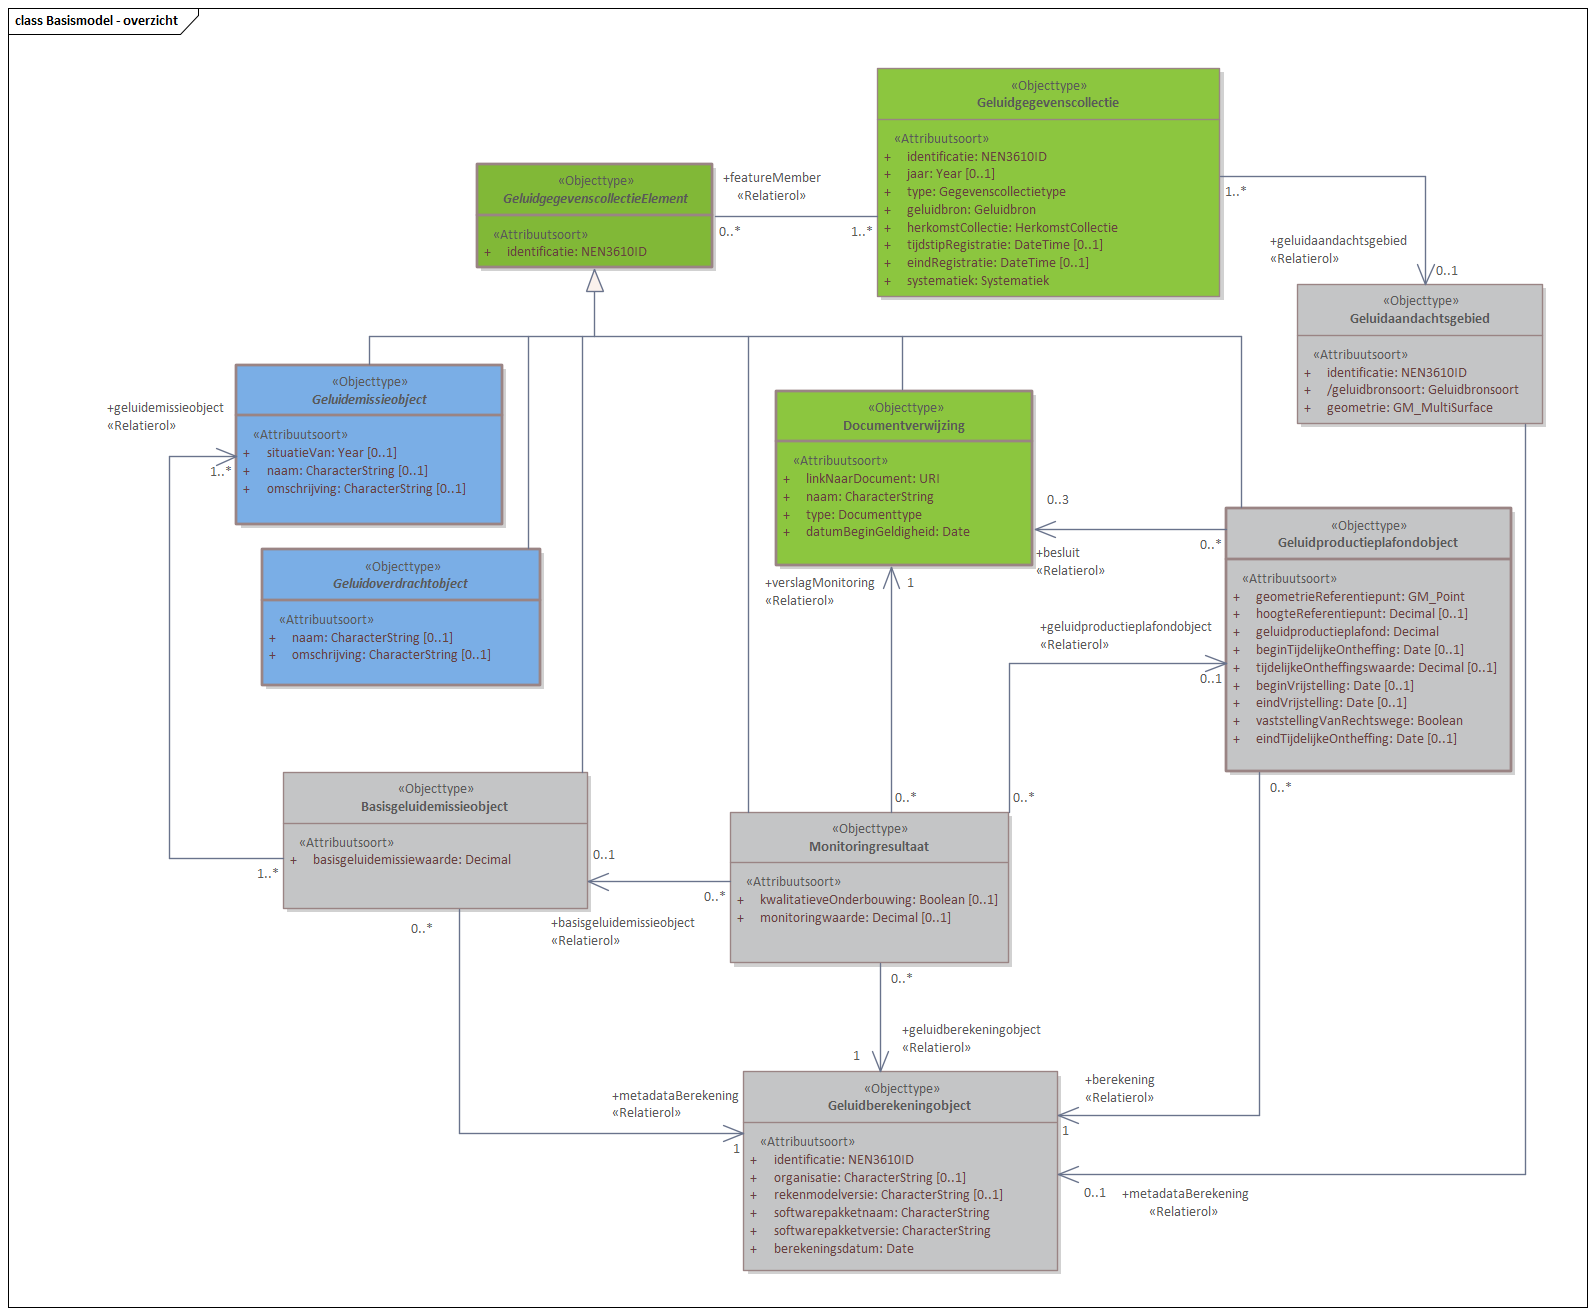
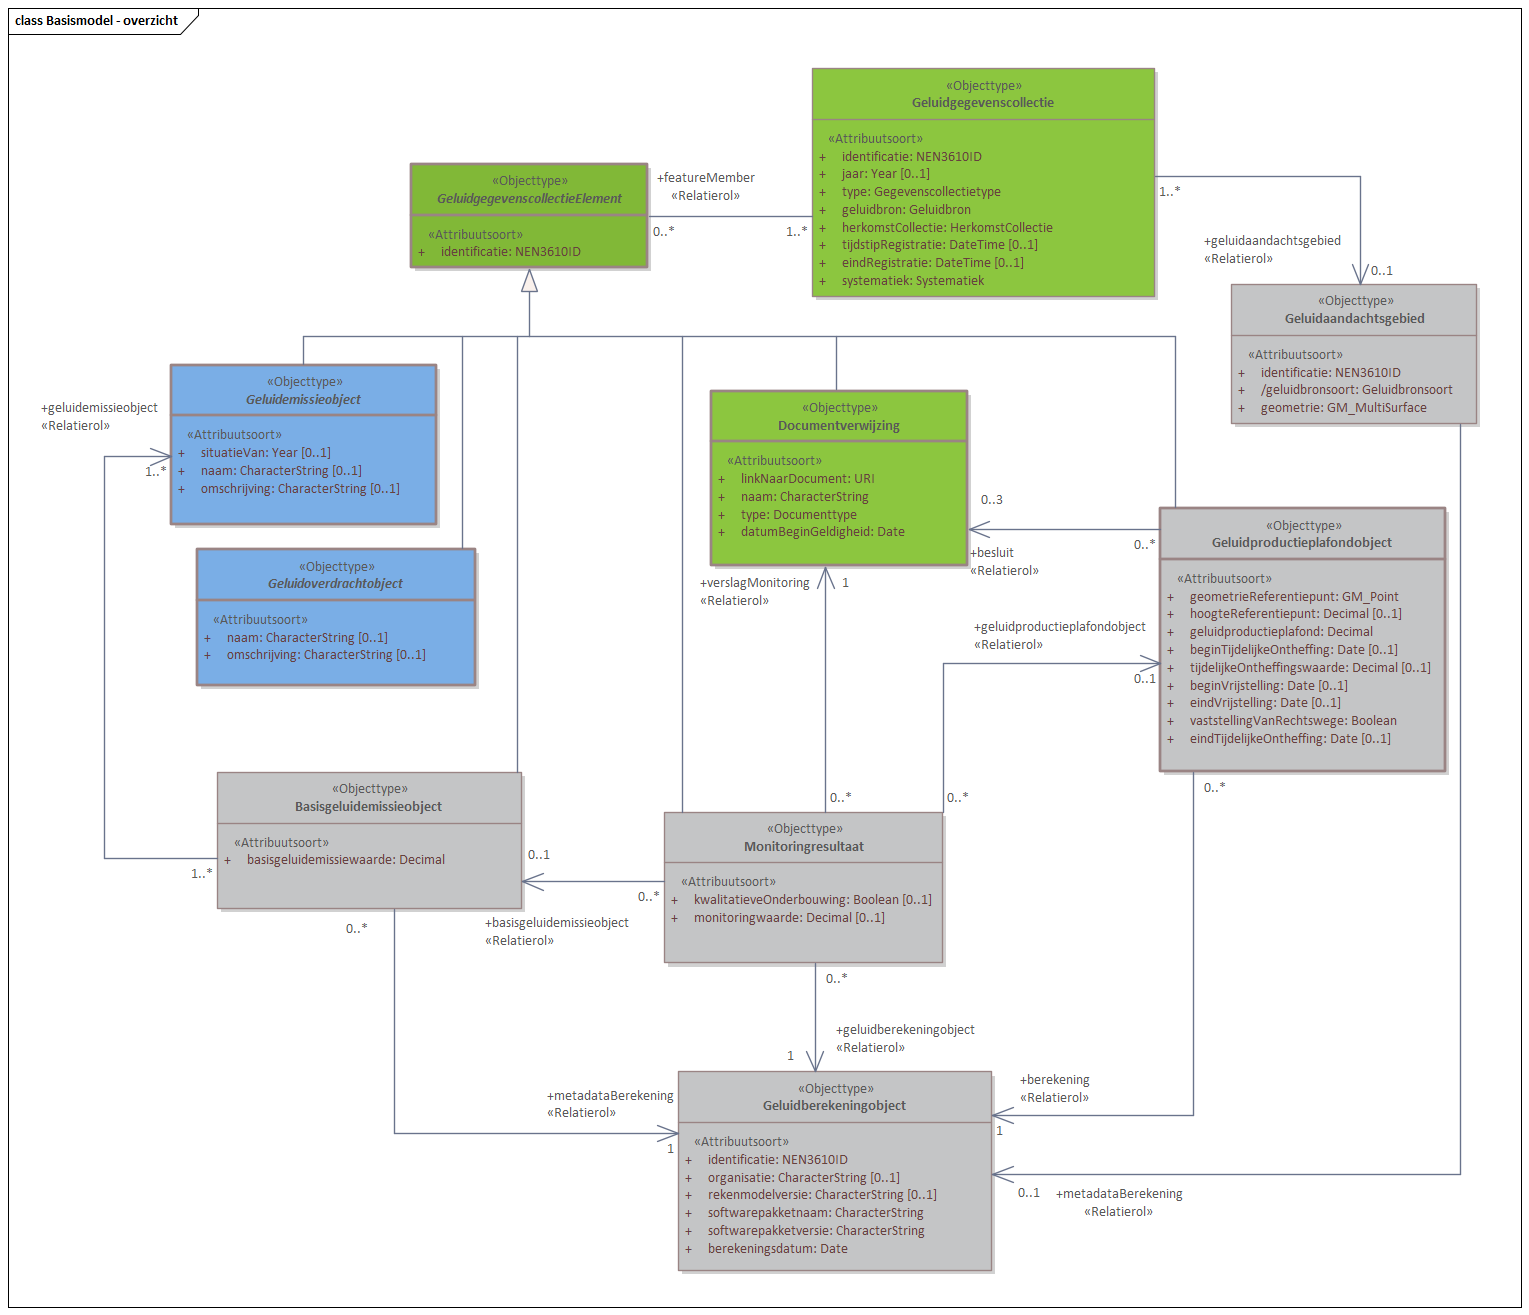
MIMLM-InformatiemodelGeluid-1.1-0-20210521-20211109-113808

diff --git a/data/IMG-cat.respec.html b/data/IMG-cat.respec.html
@@ -1,10 +1,10 @@
 
 <!DOCTYPE HTML><section id="cat" class="normative">
    <h2>Gegevensdefinitie</h2>
-   <!--MIMLM-InformatiemodelGeluid-1.1-0-20210521-20211109-112456 imvertor 1.65.2-->
+   <!--MIMLM-InformatiemodelGeluid-1.1-0-20210521-20211109-113808 imvertor 1.65.2-->
    <section id="EAID_66AE8FA2_74FC_4d4d_B2B2_249C8D6A651F">
       <h3>   Basismodel - overzicht</h3>
-      <div class="imageinfo overview"><img src="data/Images/EAID_66AE8FA2_74FC_4d4d_B2B2_249C8D6A651F.png" usemap="#imagemap-EAID_66AE8FA2_74FC_4d4d_B2B2_249C8D6A651F" alt="Diagram &#xA;                        Het Basismodel vormt de samenhang tussen alle domeinen van het IMGeluid. Alle objecttypen en relaties uit het IMGeluid komen samen in een Geluidgegevenscollectie.&#xA;                        Binnen het IMGeluid worden geluidbrongegevens die gebruikt worden voor GPP en BGE berekeningen, gemodelleerd als een Geluidemissie of Geluidoverdrachtobject. De resultaten van GPP of BGE berekeningen worden opgeslagen in een Geluidgegevenscollectie. De onderliggende juridische vastleggingen, vaststellingen, of monitoringsverslagen van deze omgevings- of monitoringswaarden, worden ook opgeslagen in dezelfde Geluidgegevenscollectie.&#xA;                        Per geluidbron per toepassing kan er een Geluidgegevenscollectie bestaan. Deze kan geassocieerd worden met maximaal 1 Geluidaandachtsgebied. Wanneer geluidgegevens met betrekking tot cumulatieberekeningen worden aangeleverd, bevat een Geluidgegevenscollectie geen Geluidaandachtsgebied.&#xA;                        &#xA;                        # test&#xA;                        &#xA;                        Klik met de rechtermuisknop op het diagram om de afbeelding op volledige grote in een nieuw tabblad te openen.&#xA;                     "><map name="imagemap-EAID_66AE8FA2_74FC_4d4d_B2B2_249C8D6A651F"><area shape="rect" alt="GeluidgegevenscollectieElement" coords="477,164,713,268" href="#graph_EAID_924BD078_D715_461a_B7E9_D7176A7406E0"><area shape="rect" alt="Monitoringresultaat" coords="730,812,1009,963" href="#graph_EAID_BA00B77B_D408_4590_8185_CE59E5838F1E"><area shape="rect" alt="Basisgeluidemissieobject" coords="283,772,588,909" href="#graph_EAID_9AD15457_4880_42e5_8C72_4E5EFAC91B15"><area shape="rect" alt="Geluidproductieplafondobject" coords="1226,508,1512,772" href="#graph_EAID_237408F8_8CE9_4828_B8FB_1A5B8C917622"><area shape="rect" alt="Geluidberekeningobject" coords="743,1071,1058,1271" href="#graph_EAID_97ED59FE_9FCA_49a6_8F07_214E48000B76"><area shape="rect" alt="Documentverwijzing" coords="776,391,1033,566" href="#graph_EAID_7E137496_1028_4af5_9367_569358A2167B"><area shape="rect" alt="Geluidaandachtsgebied" coords="1297,284,1543,424" href="#graph_EAID_B06128AC_518C_4e26_88E5_14ED5A050A19"><area shape="rect" alt="Geluidgegevenscollectie" coords="877,68,1220,297" href="#graph_EAID_313C5AF9_49B8_4860_9E65_DE7C70084864"><area shape="rect" alt="Geluidemissieobject" coords="236,365,503,525" href="#graph_EAID_361C96BA_A638_494e_80BA_590ED481A81B"><area shape="rect" alt="Geluidoverdrachtobject" coords="262,549,541,686" href="#graph_EAID_2FEA326B_B7E7_48a4_B50F_00CCB2694677"></map><p><b>Basismodel - overzicht</b>
+      <div class="imageinfo overview"><img src="data/Images/EAID_66AE8FA2_74FC_4d4d_B2B2_249C8D6A651F.png" usemap="#imagemap-EAID_66AE8FA2_74FC_4d4d_B2B2_249C8D6A651F" alt="Diagram &#xA;                        Het Basismodel vormt de samenhang tussen alle domeinen van het IMGeluid. Alle objecttypen en relaties uit het IMGeluid komen samen in een Geluidgegevenscollectie.&#xA;                        Binnen het IMGeluid worden geluidbrongegevens die gebruikt worden voor GPP en BGE berekeningen, gemodelleerd als een Geluidemissie of Geluidoverdrachtobject. De resultaten van GPP of BGE berekeningen worden opgeslagen in een Geluidgegevenscollectie. De onderliggende juridische vastleggingen, vaststellingen, of monitoringsverslagen van deze omgevings- of monitoringswaarden, worden ook opgeslagen in dezelfde Geluidgegevenscollectie.&#xA;                        Per geluidbron per toepassing kan er een Geluidgegevenscollectie bestaan. Deze kan geassocieerd worden met maximaal 1 Geluidaandachtsgebied. Wanneer geluidgegevens met betrekking tot cumulatieberekeningen worden aangeleverd, bevat een Geluidgegevenscollectie geen Geluidaandachtsgebied.&#xA;                        &#xA;                        # test&#xA;                        &#xA;                        Klik met de rechtermuisknop op het diagram om de afbeelding op volledige grote in een nieuw tabblad te openen.&#xA;                     "><map name="imagemap-EAID_66AE8FA2_74FC_4d4d_B2B2_249C8D6A651F"><area shape="rect" alt="GeluidgegevenscollectieElement" coords="411,164,648,268" href="#graph_EAID_924BD078_D715_461a_B7E9_D7176A7406E0"><area shape="rect" alt="Monitoringresultaat" coords="664,812,943,963" href="#graph_EAID_BA00B77B_D408_4590_8185_CE59E5838F1E"><area shape="rect" alt="Basisgeluidemissieobject" coords="217,772,522,909" href="#graph_EAID_9AD15457_4880_42e5_8C72_4E5EFAC91B15"><area shape="rect" alt="Geluidproductieplafondobject" coords="1160,508,1446,772" href="#graph_EAID_237408F8_8CE9_4828_B8FB_1A5B8C917622"><area shape="rect" alt="Geluidberekeningobject" coords="678,1071,992,1271" href="#graph_EAID_97ED59FE_9FCA_49a6_8F07_214E48000B76"><area shape="rect" alt="Documentverwijzing" coords="711,391,968,566" href="#graph_EAID_7E137496_1028_4af5_9367_569358A2167B"><area shape="rect" alt="Geluidaandachtsgebied" coords="1231,284,1477,424" href="#graph_EAID_B06128AC_518C_4e26_88E5_14ED5A050A19"><area shape="rect" alt="Geluidgegevenscollectie" coords="812,68,1155,297" href="#graph_EAID_313C5AF9_49B8_4860_9E65_DE7C70084864"><area shape="rect" alt="Geluidemissieobject" coords="171,365,437,525" href="#graph_EAID_361C96BA_A638_494e_80BA_590ED481A81B"><area shape="rect" alt="Geluidoverdrachtobject" coords="197,549,476,686" href="#graph_EAID_2FEA326B_B7E7_48a4_B50F_00CCB2694677"></map><p><b>Basismodel - overzicht</b>
             
             <p>Het Basismodel vormt de samenhang tussen alle domeinen van het IMGeluid. Alle objecttypen
                en relaties uit het IMGeluid komen samen in een Geluidgegevenscollectie.</p>
@@ -6931,11 +6931,11 @@
                </tr>
                <tr>
                   <td>
-                     <a class="link" href="#detail_attribute_IMGeluidAlgemeen_SpoorstaafruwheidWaarde_amplitudeVoorGolflengte400">amplitudeVoorGolflengte400</a>
+                     <a class="link" href="#detail_attribute_IMGeluidAlgemeen_SpoorstaafruwheidWaarde_amplitudeVoorGolflengte500">amplitudeVoorGolflengte500</a>
                      </td>
                   <td>
                      
-                     <p>Gemeten amplitude voor een golflengte van 400 millimeter.</p>
+                     <p>Gemeten amplitude voor een golflengte van 500 millimeter.</p>
                      </td>
                   <td>
                      <a class="external-link" href="https://geonovum.github.io/MIM-Werkomgeving/#primitive-datatypes">Decimal</a>
@@ -6944,11 +6944,11 @@
                </tr>
                <tr>
                   <td>
-                     <a class="link" href="#detail_attribute_IMGeluidAlgemeen_SpoorstaafruwheidWaarde_amplitudeVoorGolflengte500">amplitudeVoorGolflengte500</a>
+                     <a class="link" href="#detail_attribute_IMGeluidAlgemeen_SpoorstaafruwheidWaarde_amplitudeVoorGolflengte400">amplitudeVoorGolflengte400</a>
                      </td>
                   <td>
                      
-                     <p>Gemeten amplitude voor een golflengte van 500 millimeter.</p>
+                     <p>Gemeten amplitude voor een golflengte van 400 millimeter.</p>
                      </td>
                   <td>
                      <a class="external-link" href="https://geonovum.github.io/MIM-Werkomgeving/#primitive-datatypes">Decimal</a>
@@ -21294,8 +21294,8 @@
                   </tbody>
                </table>
                </section>
-            <a class="anchor" id="detail_attribute_IMGeluidAlgemeen_SpoorstaafruwheidWaarde_amplitudeVoorGolflengte400"></a><section id="detail_attribute_IMGeluidAlgemeen_SpoorstaafruwheidWaarde_amplitudeVoorGolflengte400">
-               <h6>Attribuutsoort details  <a href="#global_class_IMGeluidAlgemeen_SpoorstaafruwheidWaarde">SpoorstaafruwheidWaarde</a> amplitudeVoorGolflengte400</h6>
+            <a class="anchor" id="detail_attribute_IMGeluidAlgemeen_SpoorstaafruwheidWaarde_amplitudeVoorGolflengte500"></a><section id="detail_attribute_IMGeluidAlgemeen_SpoorstaafruwheidWaarde_amplitudeVoorGolflengte500">
+               <h6>Attribuutsoort details  <a href="#global_class_IMGeluidAlgemeen_SpoorstaafruwheidWaarde">SpoorstaafruwheidWaarde</a> amplitudeVoorGolflengte500</h6>
                
                <table style="width: 100%;">
                   <colgroup style="width: 30%;"></colgroup>
@@ -21303,13 +21303,13 @@
                   <tbody>
                      <tr>
                         <th>Naam</th>
-                        <td>amplitudeVoorGolflengte400</td>
+                        <td>amplitudeVoorGolflengte500</td>
                      </tr>
                      <tr>
                         <th>Definitie</th>
                         <td>
                            
-                           <p>Gemeten amplitude voor een golflengte van 400 millimeter.</p>
+                           <p>Gemeten amplitude voor een golflengte van 500 millimeter.</p>
                            </td>
                      </tr>
                      <tr>
@@ -21333,8 +21333,8 @@
                   </tbody>
                </table>
                </section>
-            <a class="anchor" id="detail_attribute_IMGeluidAlgemeen_SpoorstaafruwheidWaarde_amplitudeVoorGolflengte500"></a><section id="detail_attribute_IMGeluidAlgemeen_SpoorstaafruwheidWaarde_amplitudeVoorGolflengte500">
-               <h6>Attribuutsoort details  <a href="#global_class_IMGeluidAlgemeen_SpoorstaafruwheidWaarde">SpoorstaafruwheidWaarde</a> amplitudeVoorGolflengte500</h6>
+            <a class="anchor" id="detail_attribute_IMGeluidAlgemeen_SpoorstaafruwheidWaarde_amplitudeVoorGolflengte400"></a><section id="detail_attribute_IMGeluidAlgemeen_SpoorstaafruwheidWaarde_amplitudeVoorGolflengte400">
+               <h6>Attribuutsoort details  <a href="#global_class_IMGeluidAlgemeen_SpoorstaafruwheidWaarde">SpoorstaafruwheidWaarde</a> amplitudeVoorGolflengte400</h6>
                
                <table style="width: 100%;">
                   <colgroup style="width: 30%;"></colgroup>
@@ -21342,13 +21342,13 @@
                   <tbody>
                      <tr>
                         <th>Naam</th>
-                        <td>amplitudeVoorGolflengte500</td>
+                        <td>amplitudeVoorGolflengte400</td>
                      </tr>
                      <tr>
                         <th>Definitie</th>
                         <td>
                            
-                           <p>Gemeten amplitude voor een golflengte van 500 millimeter.</p>
+                           <p>Gemeten amplitude voor een golflengte van 400 millimeter.</p>
                            </td>
                      </tr>
                      <tr>
@@ -25020,7 +25020,7 @@
 </section>
 <section id="lis" class="normative">
    <h2>Inhoud van waardenlijsten</h2>
-   <!--MIMLM-InformatiemodelGeluid-1.1-0-20210521-20211109-112456 imvertor 1.65.2--><a class="anchor" id="graph_EAID_C9ACE184_6E2B_40c1_ACE0_A7C5EE554EF9"></a><a class="anchor" id="detail_class_IMGeluidAlgemeen_Schermtype"></a><section id="detail_class_IMGeluidAlgemeen_Schermtype">
+   <!--MIMLM-InformatiemodelGeluid-1.1-0-20210521-20211109-113808 imvertor 1.65.2--><a class="anchor" id="graph_EAID_C9ACE184_6E2B_40c1_ACE0_A7C5EE554EF9"></a><a class="anchor" id="detail_class_IMGeluidAlgemeen_Schermtype"></a><section id="detail_class_IMGeluidAlgemeen_Schermtype">
       <h3>Enumeratie details  Schermtype</h3>
       
       <table style="width: 100%;" class="list">
